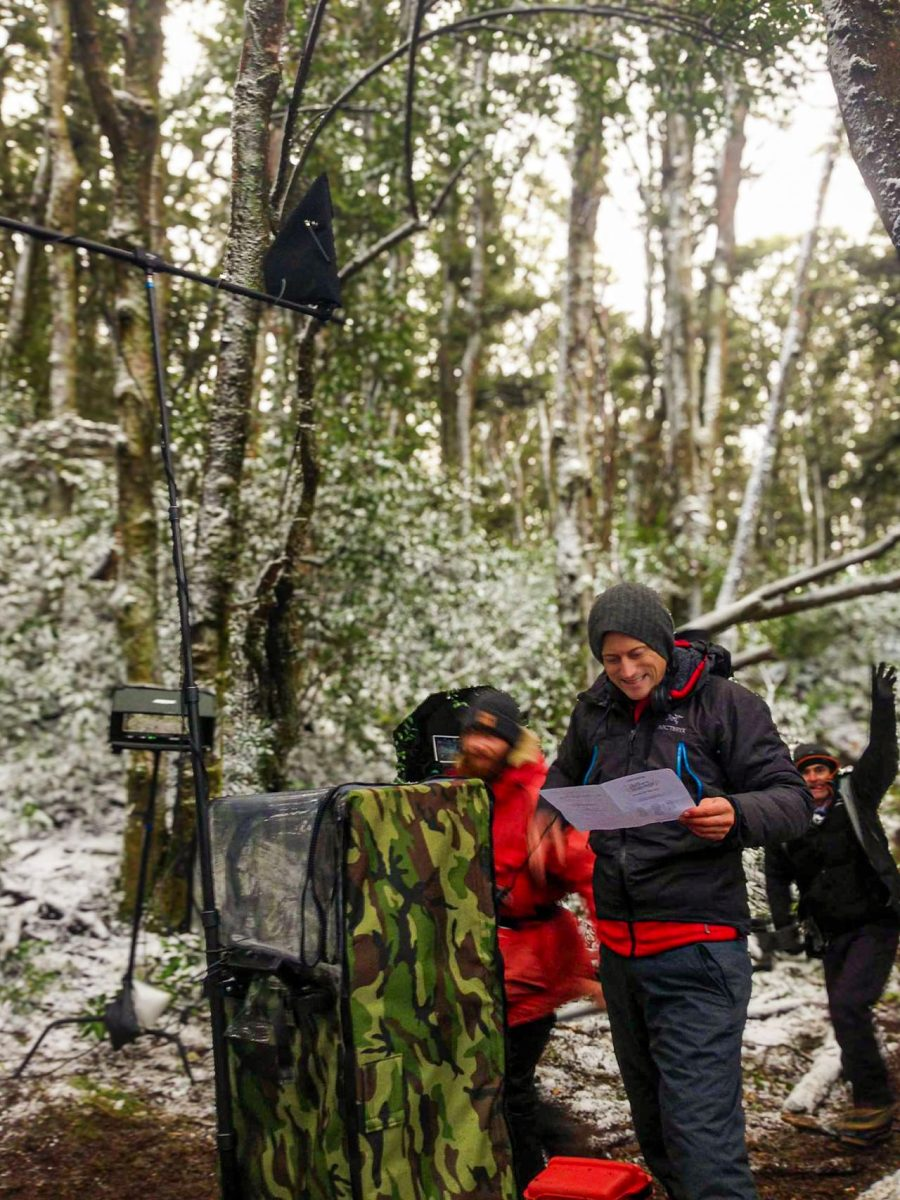
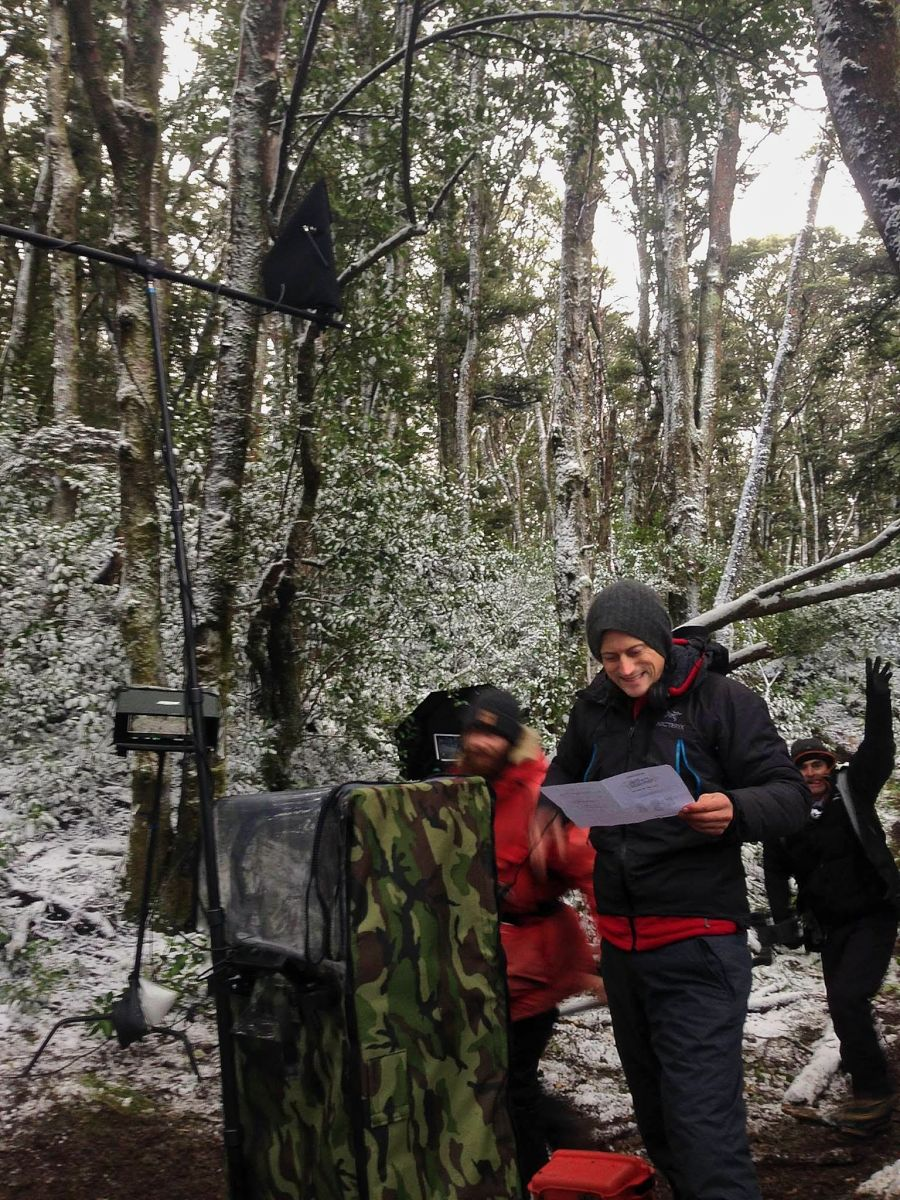
His own photographs from Facebook, graded: the Singapore page opens at Jewel, Monkey Man gets its set photos, Namibia on the documentary page, a sharper snow photo
- Singapore: the page now opens with the Jewel photograph (Somebody Feed Phil), in a split
  opening made for a landscape picture
- Monkey Man: 'On set in Batam', a lead photograph of the sound team and a row of two
  (Infinite Studios, wrap day with Dev Patel)
- Documentary: the Namibia desert under 'Where the kit has been', cut to the figure on a phone
- Hunt for the Wilderpeople snow photograph: regraded from the larger copy, and it opens
  full screen at 1536 x 2048 on the four pages that carry it
- All pictures open full screen; stylesheet address bumped

Claude-Session: https://claude.ai/code/session_01DouhgXWTr44TL72pHyCnW9

diff --git a/monkey-man.html b/monkey-man.html
@@ -24,7 +24,7 @@
 <link rel="preconnect" href="https://fonts.googleapis.com">
 <link rel="preconnect" href="https://fonts.gstatic.com" crossorigin>
 <link href="https://fonts.googleapis.com/css2?family=Cormorant+Garamond:ital,wght@0,500;0,600;1,500&family=Inter:wght@400;500;600&display=swap" rel="stylesheet">
-<link rel="stylesheet" href="/assets/site.css?v=202611202000">
+<link rel="stylesheet" href="/assets/site.css?v=202611202130">
 <script src="/assets/site.js?v=202611201600" defer></script>
 <link rel="icon" href="/favicon.ico" sizes="32x32">
 <link rel="icon" href="/favicon.svg" type="image/svg+xml">
@@ -76,6 +76,12 @@
     <p><em>Monkey Man</em> was fight choreography shot on a gimbal through 360 degrees, and it taught me everything about trusting my radio mics. A modern radio mic is close to invisible on the smallest actor. The range of a Wisycom MTP61 transmitter into a Betso Sharkie antenna is what changes the job.</p>
     <p>The Sharkie is a compact directional antenna, light enough to carry on the bag rig around my waist. It makes me look like a penguin. I can stand well back and trust the capture while the whole set moves, and the transmitter records on board as well, so every line is recorded twice.</p>
     <p><a href="/difficult-locations#driving">More on driving and chases &rarr;</a></p>
+    <h2>On set in Batam</h2>
+    <figure class="cr-lead"><img data-full="/img/monkey-man/team-batam-2000.jpg" src="/img/monkey-man/team-batam-1264.jpg" width="2000" height="1500" loading="lazy" alt="Ande Schurr between two of his sound team, all three in black shirts printed with three monkeys in headphones and the words We can hear you, in front of a shutter painted blue, green and brown, with a boom in a yellow windshield in the foreground"><figcaption>Action men. With Reza Feryanto and Adyt Santoso in the team shirt: three monkeys in headphones and &ldquo;We can hear you&rdquo;.</figcaption></figure>
+    <div class="cr-row">
+      <figure style="--r:1.5"><img src="/img/monkey-man/on-set-infinite-849.jpg" width="849" height="566" loading="lazy" alt="Ande Schurr sits at his sound cart on a studio floor with a tablet on his knee, beside two of his sound team, one crouching and one standing with a thumb up"><figcaption>On set at Infinite Studios, Batam.</figcaption></figure>
+      <figure style="--r:1"><img src="/img/monkey-man/wrap-day-744.jpg" width="744" height="744" loading="lazy" alt="The sound team in their team shirts with Dev Patel, arms around each other under a blue tarpaulin"><figcaption>The sound team with Dev Patel on wrap day.</figcaption></figure>
+    </div>
     <h2>The trailer</h2>
     <figure class="cr-reel cr-trailer" data-yt="5qVQxw5Hbvk" data-yt-title="Monkey Man: official trailer, Universal Pictures">
       <div class="reel"><a class="reel-start" href="https://www.youtube.com/watch?v=5qVQxw5Hbvk" rel="noopener">Play the official trailer</a></div>

diff --git a/difficult-locations.html b/difficult-locations.html
@@ -24,7 +24,7 @@
 <link rel="preconnect" href="https://fonts.googleapis.com">
 <link rel="preconnect" href="https://fonts.gstatic.com" crossorigin>
 <link href="https://fonts.googleapis.com/css2?family=Cormorant+Garamond:ital,wght@0,500;0,600;1,500&family=Inter:wght@400;500;600&display=swap" rel="stylesheet">
-<link rel="stylesheet" href="/assets/site.css?v=202611202000">
+<link rel="stylesheet" href="/assets/site.css?v=202611202130">
 <script src="/assets/site.js?v=202611201600" defer></script>
 <link rel="icon" href="/favicon.ico" sizes="32x32">
 <link rel="icon" href="/favicon.svg" type="image/svg+xml">
@@ -103,7 +103,7 @@
     <h2 id="mountains">Mountains</h2>
     <p>On <a href="/hunt-for-the-wilderpeople"><em>Hunt for the Wilderpeople</em></a> it was the New Zealand bush and the cold and wind of the Mount Ruapehu foothills, with Sam Neill and Julian Dennison on the move through rough country.</p>
     <p>On <em>Lord of the Flies</em> the waterfall was up a mountain. We carried three sizes of waterproof bag, one big enough to climb inside, all with straps so they could be hoisted up. The job is to arrive with the gear dry and the team in good spirits.</p>
-    <figure style="max-width:420px"><img src="/img/home/loc-snow.jpg" width="900" height="1200" loading="lazy" alt="Ande Schurr beside a covered sound cart in a snowy New Zealand forest"><figcaption><em>Hunt for the Wilderpeople</em>, New Zealand. The sound cart, in snow.</figcaption></figure>
+    <figure style="max-width:420px"><img data-full="/img/home/loc-snow-1536.jpg" src="/img/home/loc-snow.jpg" width="900" height="1200" loading="lazy" alt="Ande Schurr beside a covered sound cart in a snowy New Zealand forest"><figcaption><em>Hunt for the Wilderpeople</em>, New Zealand. The sound cart, in snow.</figcaption></figure>
 
     <h2 id="driving">Driving and chases</h2>
     <p>The chase sequences on <em>Hunt for the Wilderpeople</em> taught me to hold the point of focus while everything around it moves. The fight choreography on <a href="/monkey-man"><em>Monkey Man</em></a>, shot on a gimbal through 360 degrees, taught me to trust my radio mics.</p>

diff --git a/index.html b/index.html
@@ -213,7 +213,7 @@
   ]
 }
 </script>
-<link rel="stylesheet" href="/assets/site.css?v=202611202000">
+<link rel="stylesheet" href="/assets/site.css?v=202611202130">
 <script src="/assets/site.js?v=202611201600" defer></script>
 <link rel="icon" href="/favicon.ico" sizes="32x32">
 <link rel="icon" href="/favicon.svg" type="image/svg+xml">
@@ -314,7 +314,7 @@
     <p class="hx-strip-sub">Wet, muddy, sunburnt. A normal week.</p>
   </div>
   <ul class="hx-strip-row">
-    <li><figure><img src="/img/home/loc-snow.jpg" width="900" height="1200" loading="lazy" alt="Ande Schurr beside a covered sound cart in a snowy New Zealand forest"><figcaption><em>Hunt for the Wilderpeople</em>, New Zealand. The sound cart, in snow.</figcaption></figure></li>
+    <li><figure><img data-full="/img/home/loc-snow-1536.jpg" src="/img/home/loc-snow.jpg" width="900" height="1200" loading="lazy" alt="Ande Schurr beside a covered sound cart in a snowy New Zealand forest"><figcaption><em>Hunt for the Wilderpeople</em>, New Zealand. The sound cart, in snow.</figcaption></figure></li>
     <li><figure><img src="/img/home/loc-beach.jpg" width="720" height="960" loading="lazy" alt="Two antenna fins in rain covers on a stand beside a sound bag, on a white beach in the Langkawi archipelago"><figcaption>Two Betso Sharkie antenna fins, protected from the elements. Langkawi archipelago.</figcaption></figure></li>
     <li><figure><img src="/img/home/loc-canopy.jpg" width="720" height="960" loading="lazy" alt="Looking up a tall ladder into the rainforest canopy, where director of photography Mark Wolf is at work"><figcaption>Our director of photography, Mark Wolf, up a ladder in the canopy. <em>Lord of the Flies</em>, Langkawi.</figcaption></figure></li>
     <li><figure><img src="/img/home/loc-rocks.jpg" width="720" height="960" loading="lazy" alt="Sound utility Reza Feryanto stands on sharp limestone rocks above the sea, boom pole in hand"><figcaption>My sound utility, Reza Feryanto, on the rocks. <em>Lord of the Flies</em>, Langkawi.</figcaption></figure></li>

diff --git a/assets/site.css b/assets/site.css
@@ -1420,3 +1420,21 @@ img[data-lb]:focus-visible{outline:2px solid var(--gold);outline-offset:3px}
 .prose .cr-trailer .reel-start:focus-visible{outline:2px solid var(--gold);outline-offset:-6px}
 @media(max-width:520px){.prose .cr-trailer .reel-start{gap:10px;font-size:15px}.prose .cr-trailer .reel-start::before{width:54px;height:54px;background-size:24px 24px}}
 @media(prefers-reduced-motion:reduce){.prose .cr-trailer .reel-start::before{transition:none}}
+
+/* Film pages: one lead photograph, then a row of two that share a height. Each figure in the row
+   carries its own shape (--r, width over height), so nothing is cut (20 Nov 2026). */
+.prose .cr-lead{margin:8px 0 12px}
+.prose .cr-lead img,.prose .cr-row img{display:block;width:100%;height:auto;border-radius:3px;background:#152a21}
+.prose .cr-row{display:flex;gap:12px;align-items:flex-start;margin:0 0 34px}
+.prose .cr-row figure{margin:0;flex:var(--r,1) 1 0;min-width:0}
+.prose .cr-lead figcaption,.prose .cr-row figcaption{font-size:13px;line-height:1.4;letter-spacing:0;margin:6px 2px 0}
+@media(max-width:520px){.prose .cr-row{flex-direction:column;gap:18px}.prose .cr-row figure{flex:none;width:100%}}
+/* A landscape photograph in the split opening (Singapore page): equal halves, and never so tall
+   that the picture is cut down to a strip. */
+@media(min-width:900px){
+  .hx-phero-split.hx-phero-land{grid-template-columns:minmax(0,1fr) minmax(0,1fr);min-height:min(calc(100vh - 64px),660px,62vw)}
+  .hx-phero-split.hx-phero-land .hx-phero-fig{min-height:0}
+}
+/* A panorama under a section. On a phone it is cut to the part with the figure in it; the
+   whole picture opens full screen. */
+@media(max-width:640px){.hx-pan img{aspect-ratio:4/3;object-fit:cover;object-position:6% 50%}}

diff --git a/production-sound-mixer-singapore.html b/production-sound-mixer-singapore.html
@@ -21,7 +21,7 @@
 <link rel="preconnect" href="https://fonts.googleapis.com">
 <link rel="preconnect" href="https://fonts.gstatic.com" crossorigin>
 <link href="https://fonts.googleapis.com/css2?family=Cormorant+Garamond:ital,wght@0,500;0,600;1,500&family=Inter:wght@400;500;600&display=swap" rel="stylesheet">
-<link rel="stylesheet" href="/assets/site.css?v=202611202000">
+<link rel="stylesheet" href="/assets/site.css?v=202611202130">
 <script type="application/ld+json">
 {
   "@context": "https://schema.org",
@@ -104,7 +104,11 @@
   </div>
 </nav>
 
-<header class="hx-phero">
+<header class="hx-phero hx-phero-split hx-phero-land">
+  <figure class="hx-phero-fig">
+    <img data-full="/img/singapore/jewel-2016.jpg" src="/img/singapore/jewel-1200.jpg" srcset="/img/singapore/jewel-800.jpg 800w, /img/singapore/jewel-1200.jpg 1200w, /img/singapore/jewel-2016.jpg 2016w" sizes="(min-width:900px) 50vw, 100vw" width="2016" height="1512" alt="Ande Schurr smiles at the camera and holds a boom microphone in a fur windshield over Phil Rosenthal, who looks up at the indoor waterfall at Jewel Changi Airport" fetchpriority="high" style="object-position:47% 42%">
+    <figcaption>With Phil Rosenthal at Jewel. <em>Somebody Feed Phil</em>, Netflix.</figcaption>
+  </figure>
   <div class="hx-phero-text">
     <h1>Production sound mixer in Singapore.</h1>
     <p class="hx-lead">Emmy-nominated, twenty years on location, based here. Film, television drama, documentary, commercials and corporate.</p>

diff --git a/hunt-for-the-wilderpeople.html b/hunt-for-the-wilderpeople.html
@@ -24,7 +24,7 @@
 <link rel="preconnect" href="https://fonts.googleapis.com">
 <link rel="preconnect" href="https://fonts.gstatic.com" crossorigin>
 <link href="https://fonts.googleapis.com/css2?family=Cormorant+Garamond:ital,wght@0,500;0,600;1,500&family=Inter:wght@400;500;600&display=swap" rel="stylesheet">
-<link rel="stylesheet" href="/assets/site.css?v=202611202000">
+<link rel="stylesheet" href="/assets/site.css?v=202611202130">
 <script src="/assets/site.js?v=202611201600" defer></script>
 <link rel="icon" href="/favicon.ico" sizes="32x32">
 <link rel="icon" href="/favicon.svg" type="image/svg+xml">
@@ -60,7 +60,7 @@
 
 <main class="cr">
   <header class="cr-hero has-bg">
-    <img data-cap="Hunt for the Wilderpeople, New Zealand. The sound cart, in snow." class="cr-bg" src="/img/home/loc-snow.jpg" width="900" height="1200" alt="" style="object-position:50% 30%" fetchpriority="high">
+    <img data-cap="Reading sides at the sound cart, in snow. Hunt for the Wilderpeople, New Zealand." data-full="/img/home/loc-snow-1536.jpg" class="cr-bg" src="/img/home/loc-snow.jpg" width="900" height="1200" alt="" style="object-position:50% 30%" fetchpriority="high">
     <div class="cr-in">
       <p class="cr-meta">Piki Films, 2016 &nbsp;&middot;&nbsp; Director Taika Waititi</p>
       <h1><em>Hunt for the Wilderpeople</em></h1>

diff --git a/documentary-sound-mixer.html b/documentary-sound-mixer.html
@@ -21,7 +21,7 @@
 <link rel="preconnect" href="https://fonts.googleapis.com">
 <link rel="preconnect" href="https://fonts.gstatic.com" crossorigin>
 <link href="https://fonts.googleapis.com/css2?family=Cormorant+Garamond:ital,wght@0,500;0,600;1,500&family=Inter:wght@400;500;600&display=swap" rel="stylesheet">
-<link rel="stylesheet" href="/assets/site.css?v=202611202000">
+<link rel="stylesheet" href="/assets/site.css?v=202611202130">
 <script src="/assets/site.js?v=202611201600" defer></script>
 <script type="application/ld+json">
 {
@@ -129,6 +129,10 @@
         <p class="hx-links"><a href="/credits">The full list</a><a href="/production-sound-mixer-australia">Australia and New Zealand</a></p>
       </div>
     </div>
+    <figure class="hx-wide hx-pan">
+      <img data-full="/img/documentary/namibia-wide-2048.jpg" src="/img/documentary/namibia-wide-1360.jpg" srcset="/img/documentary/namibia-wide-1360.jpg 1360w, /img/documentary/namibia-wide-2048.jpg 2048w" sizes="(min-width:1360px) 1210px, 90vw" width="2048" height="878" loading="lazy" alt="A lone figure with a boom pole walks across an orange desert plain under a deep blue sky, low hills on the horizon">
+      <figcaption>Wild sound in the desert, southern Namibia.</figcaption>
+    </figure>
   </div>
 </section>
 

diff --git a/production-sound-mixer-australia.html b/production-sound-mixer-australia.html
@@ -21,7 +21,7 @@
 <link rel="preconnect" href="https://fonts.googleapis.com">
 <link rel="preconnect" href="https://fonts.gstatic.com" crossorigin>
 <link href="https://fonts.googleapis.com/css2?family=Cormorant+Garamond:ital,wght@0,500;0,600;1,500&family=Inter:wght@400;500;600&display=swap" rel="stylesheet">
-<link rel="stylesheet" href="/assets/site.css?v=202611202000">
+<link rel="stylesheet" href="/assets/site.css?v=202611202130">
 <script src="/assets/site.js?v=202611201600" defer></script>
 <script type="application/ld+json">
 {
@@ -104,7 +104,7 @@
 
 <header class="hx-phero hx-phero-split">
   <figure class="hx-phero-fig">
-    <img src="/img/home/loc-snow.jpg" width="900" height="1200" alt="A sound cart on a snow-covered hillside in New Zealand" fetchpriority="high" style="object-position:50% 50%">
+    <img data-full="/img/home/loc-snow-1536.jpg" src="/img/home/loc-snow.jpg" width="900" height="1200" alt="A sound cart on a snow-covered hillside in New Zealand" fetchpriority="high" style="object-position:50% 50%">
     <figcaption><em>Hunt for the Wilderpeople</em>, New Zealand. The sound cart, in snow.</figcaption>
   </figure>
   <div class="hx-phero-text">

diff --git a/beta-squad.html b/beta-squad.html
@@ -24,7 +24,7 @@
 <link rel="preconnect" href="https://fonts.googleapis.com">
 <link rel="preconnect" href="https://fonts.gstatic.com" crossorigin>
 <link href="https://fonts.googleapis.com/css2?family=Cormorant+Garamond:ital,wght@0,500;0,600;1,500&family=Inter:wght@400;500;600&display=swap" rel="stylesheet">
-<link rel="stylesheet" href="/assets/site.css?v=202611202000">
+<link rel="stylesheet" href="/assets/site.css?v=202611202130">
 <script src="/assets/site.js?v=202611201600" defer></script>
 <link rel="icon" href="/favicon.ico" sizes="32x32">
 <link rel="icon" href="/favicon.svg" type="image/svg+xml">

diff --git a/live-broadcast-sound-singapore.html b/live-broadcast-sound-singapore.html
@@ -21,7 +21,7 @@
 <link rel="preconnect" href="https://fonts.googleapis.com">
 <link rel="preconnect" href="https://fonts.gstatic.com" crossorigin>
 <link href="https://fonts.googleapis.com/css2?family=Cormorant+Garamond:ital,wght@0,500;0,600;1,500&family=Inter:wght@400;500;600&display=swap" rel="stylesheet">
-<link rel="stylesheet" href="/assets/site.css?v=202611202000">
+<link rel="stylesheet" href="/assets/site.css?v=202611202130">
 <script src="/assets/site.js?v=202611201600" defer></script>
 <link rel="icon" href="/favicon.ico" sizes="32x32">
 <link rel="icon" href="/favicon.svg" type="image/svg+xml">

diff --git a/lord-of-the-flies.html b/lord-of-the-flies.html
@@ -24,7 +24,7 @@
 <link rel="preconnect" href="https://fonts.googleapis.com">
 <link rel="preconnect" href="https://fonts.gstatic.com" crossorigin>
 <link href="https://fonts.googleapis.com/css2?family=Cormorant+Garamond:ital,wght@0,500;0,600;1,500&family=Inter:wght@400;500;600&display=swap" rel="stylesheet">
-<link rel="stylesheet" href="/assets/site.css?v=202611202000">
+<link rel="stylesheet" href="/assets/site.css?v=202611202130">
 <script src="/assets/site.js?v=202611201600" defer></script>
 <link rel="icon" href="/favicon.ico" sizes="32x32">
 <link rel="icon" href="/favicon.svg" type="image/svg+xml">

diff --git a/press.html b/press.html
@@ -17,7 +17,7 @@
 <link rel="preconnect" href="https://fonts.googleapis.com">
 <link rel="preconnect" href="https://fonts.gstatic.com" crossorigin>
 <link href="https://fonts.googleapis.com/css2?family=Cormorant+Garamond:ital,wght@0,500;0,600;1,500&family=Inter:wght@400;500;600&display=swap" rel="stylesheet">
-<link rel="stylesheet" href="/assets/site.css?v=202611202000">
+<link rel="stylesheet" href="/assets/site.css?v=202611202130">
 <script src="/assets/site.js?v=202611201600" defer></script>
 <link rel="icon" href="/favicon.ico" sizes="32x32">
 <link rel="icon" href="/favicon.svg" type="image/svg+xml">
